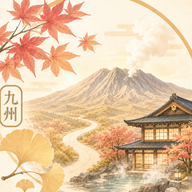
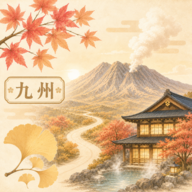
Add files via upload

diff --git a/app.js b/app.js
@@ -1,4 +1,4 @@
-/* Kyushu family autumn PWA · November 2026 · v1.8.0 fixed bottom nav + family labels + chapter artwork */
+/* Kyushu family autumn PWA · November 2026 · v1.9.5 chapter-free navigation + refreshed icon */
 
 const FIREBASE_CONFIG = window.KYUSHU_FIREBASE_CONFIG || {};
 const DATABASE_URL = FIREBASE_CONFIG.databaseURL || "https://kyushu2026-9b6b9-default-rtdb.asia-southeast1.firebasedatabase.app";
@@ -22,7 +22,6 @@ const GUIDE_DEVICE_ID_KEY = `${APP_NAMESPACE}:guide-device-id`;
 const BUDDY_FAST_ASSETS=[
   "./day-scene-zh-v17-01.webp?v=170","./day-scene-zh-v17-02.webp?v=170","./day-scene-zh-v17-03.webp?v=170","./day-scene-zh-v17-04.webp?v=170","./day-scene-zh-v17-05.webp?v=170",
   "./day-scene-zh-v17-06.webp?v=170","./day-scene-zh-v17-07.webp?v=170","./day-scene-zh-v17-08.webp?v=170","./day-scene-zh-v17-09.webp?v=170",
-  "./chapter-v18-d1-3.webp?v=180","./chapter-v18-d4-6.webp?v=180","./chapter-v18-d7-9.webp?v=180",
   "./day-scene-v52-01.webp?v=550","./day-scene-v52-02.webp?v=550","./day-scene-v52-03.webp?v=550","./day-scene-v52-04.webp?v=550","./day-scene-v52-05.webp?v=550",
   "./day-scene-v52-06.webp?v=550","./day-scene-v52-07.webp?v=550","./day-scene-v52-08.webp?v=550","./day-scene-v52-09.webp?v=550",
   "./weather-rain-usagi-v47.webp?v=470","./weather-sunny-usagi-v536.webp?v=536","./weather-teruteru-usagi-v536.webp?v=536","./weather-cloudy-usagi-v536.webp?v=536","./weather-thunder-usagi-v536.webp?v=536","./weather-snow-usagi-v536.webp?v=536","./booking-check-purin.webp?v=460","./booking-dash-usagi.webp?v=460","./hotel-return-duo.webp?v=460",
@@ -1712,32 +1711,7 @@ function getChapterPreview(){
   const current=chapterForDay(state?.dayIndex??0);
   return TRIP_CHAPTERS.find(ch=>ch.id===chapterPreviewId)||current;
 }
-function renderJourneyChapters(){
-  const wrap=$('#journeyChapters'); if(!wrap)return;
-  const current=chapterForDay(state?.dayIndex??0);
-  const preview=getChapterPreview();
-  const lang=getSceneLanguage();
-  wrap.innerHTML=`
-    <div class="journey-chapter-head">
-      <div><span class="eyebrow">CHAPTER</span><b>章節導覽</b></div>
-      <small>切換章節預覽・圖片可放大</small>
-    </div>
-    <div class="journey-chapter-tabs" role="tablist" aria-label="旅程章節">
-      ${TRIP_CHAPTERS.map(ch=>`<button type="button" class="journey-chapter-tab ${preview.id===ch.id?'selected':''} ${current.id===ch.id?'current':''}" data-chapter-tab="${ch.id}" role="tab" aria-selected="${preview.id===ch.id}"><small>${ch.range}</small><b>${ch.kicker.replace('Chapter ','第')}章</b></button>`).join('')}
-    </div>
-    <article class="journey-chapter-feature">
-      <button type="button" class="journey-chapter-image-btn" data-chapter-zoom="${preview.id}" aria-label="放大 ${esc(preview.title)} 圖片">
-        <img class="journey-chapter-feature-art" src="${chapterImageAsset(preview,lang)}" alt="${preview.range} ${esc(preview.title)}">
-        <span class="chapter-zoom-badge">⌕ 放大</span>
-      </button>
-      <div class="journey-chapter-feature-copy">
-        <small>${preview.kicker} · ${preview.range}</small>
-        <b>${preview.title}</b>
-        <span>${preview.note}</span>
-        <button type="button" class="chapter-enter-btn" data-chapter-start="${preview.start}">前往 D${preview.start+1} 行程 →</button>
-      </div>
-    </article>`;
-}
+function renderJourneyChapters(){return}
 function renderChapterLightbox(){
   const ch=TRIP_CHAPTERS[chapterLightboxIndex]||TRIP_CHAPTERS[0];
   const lang=getSceneLanguage();
@@ -2530,12 +2504,11 @@ function bindGuideTargets(visibleEvents=[]){
 
 function renderSchedule(){
   const d=TRIP.days[state.dayIndex];
-  const chapter=chapterForDay(state.dayIndex);
   $("#dayNumber").textContent=`D${state.dayIndex+1}`;
   $("#dayTitle").textContent=d.title;
   $("#daySubtitle").textContent=d.subtitle;
   const meta=$("#dayTitleMeta");
-  if(meta) meta.innerHTML=`<span class="day-meta-pill">${chapter.kicker}</span><span class="day-meta-text">${d.shortDate}</span><span class="day-meta-text">今日主圖</span>`;
+  if(meta) meta.innerHTML=`<span class="day-meta-pill">D${state.dayIndex+1}</span><span class="day-meta-text">${d.shortDate}</span><span class="day-meta-text">今日主圖</span>`;
   renderJourneyChapters();
   renderDayBrief(d);
   renderNowNext(d);
@@ -3450,7 +3423,7 @@ startPrivateAuth();
 if("serviceWorker" in navigator){
   window.addEventListener("load", async()=>{
     try{
-      const reg = await navigator.serviceWorker.register("./sw.js?v=180",{updateViaCache:"none"});
+      const reg = await navigator.serviceWorker.register("./sw.js?v=195",{updateViaCache:"none"});
       await reg.update();
     }catch(e){console.warn("Service Worker update failed",e)}
   });

diff --git a/index.html b/index.html
@@ -17,16 +17,16 @@
       document.documentElement.dataset.sceneLang=localStorage.getItem("kyushu-nov-2026:scene-lang")||"zh";
     }catch(e){}
   </script>
-  <link rel="stylesheet" href="./style.css?v=194" />
+  <link rel="stylesheet" href="./style.css?v=195" />
   <title>九州家族紅葉旅</title>
-  <meta name="app-version" content="1.9.4" />
+  <meta name="app-version" content="1.9.5" />
   <link rel="preload" as="image" href="./nov_hero_main_a.webp?v=160" fetchpriority="high">
   <link rel="preload" as="image" href="./day-scene-zh-v17-01.webp?v=170">
 </head>
 <body>
   <section id="authGate" class="auth-gate">
     <div class="auth-card">
-      <div class="auth-brand-icon"><img src="./nov_app_icon_v193.webp?v=193" alt="九州家族紅葉旅"></div>
+      <div class="auth-brand-icon"><img src="./nov_app_icon_v195.webp?v=195" alt="九州家族紅葉旅"></div>
       <span class="auth-kicker">PRIVATE TRIP</span>
       <h1>九州家族紅葉旅</h1>
       <p>行程內容只有已授權的 Google 帳號才能載入。</p>
@@ -67,7 +67,6 @@
         <div class="day-strip-wrap">
           <div id="dayStrip" class="day-strip" aria-label="旅行日期"></div>
         </div>
-        <section id="journeyChapters" class="journey-chapters" aria-label="旅程章節"></section>
         <section id="weatherCard" class="weather-card skeleton">
           <div class="weather-main">
             <div>
@@ -262,19 +261,6 @@
     </div>
   </dialog>
 
-  <div id="chapterImageLightbox" class="chapter-image-lightbox" aria-hidden="true">
-    <div class="chapter-image-lightbox-backdrop" data-chapter-lightbox-close="1"></div>
-    <div class="chapter-image-lightbox-card" role="dialog" aria-modal="true" aria-label="旅程章節圖片檢視">
-      <div class="chapter-image-lightbox-head"><div><span id="chapterLightboxKicker">Chapter 1 · D1–D3</span><b id="chapterLightboxTitle">旅程開始・福岡與由布院</b></div><button type="button" id="chapterLightboxClose" aria-label="關閉">×</button></div>
-      <div class="chapter-image-lightbox-stage">
-        <img id="chapterLightboxImage" alt="旅程章節主題圖">
-        <button type="button" id="chapterLightboxPrev" class="chapter-lightbox-nav prev" aria-label="上一章">‹</button>
-        <button type="button" id="chapterLightboxNext" class="chapter-lightbox-nav next" aria-label="下一章">›</button>
-      </div>
-      <div class="chapter-image-lightbox-foot"><span id="chapterLightboxCounter">1 / 3</span><small>左右滑動或按箭頭切換章節</small></div>
-    </div>
-  </div>
-
   <div id="dayImageLightbox" class="day-image-lightbox" aria-hidden="true">
     <div class="day-image-lightbox-backdrop" data-day-lightbox-close="1"></div>
     <div class="day-image-lightbox-card" role="dialog" aria-modal="true" aria-label="每日旅程圖片檢視">
@@ -384,7 +370,7 @@
   <div id="toast" class="toast" role="status"></div>
   <script defer src="https://www.gstatic.com/firebasejs/10.12.2/firebase-app-compat.js"></script>
   <script defer src="https://www.gstatic.com/firebasejs/10.12.2/firebase-auth-compat.js"></script>
-  <script defer src="./firebase-config.js?v=194"></script>
-  <script defer src="./app.js?v=194"></script>
+  <script defer src="./firebase-config.js?v=195"></script>
+  <script defer src="./app.js?v=195"></script>
 </body>
 </html>

diff --git a/sw.js b/sw.js
@@ -1,8 +1,8 @@
 const CACHE_PREFIX = "kyushu-nov-";
-const CACHE = "kyushu-nov-v1.9.4";
+const CACHE = "kyushu-nov-v1.9.5";
 const SHELL = [
-  "./","./index.html","./style.css?v=194","./app.js?v=194",
-  "./manifest.json","./firebase-config.js?v=194","./icon-192.png","./icon-512.png","./icon-maskable-512.png","./nov_app_icon_v193.webp?v=193",
+  "./","./index.html","./style.css?v=195","./app.js?v=195",
+  "./manifest.json","./firebase-config.js?v=195","./icon-192.png","./icon-512.png","./icon-maskable-512.png","./nov_app_icon_v195.webp?v=195",
   "./nov_app_icon_a.webp?v=160","./nov_app_icon_b.webp?v=160","./nov_app_icon_c.webp?v=160",
   "./nov_hero_main_a.webp?v=160","./nov_hero_main_b.webp?v=160",
   "./nov_weather_sunny.webp?v=160","./nov_weather_cloudy.webp?v=160","./nov_weather_rainy.webp?v=160","./nov_weather_storm.webp?v=160","./nov_weather_snow.webp?v=160",
@@ -52,9 +52,6 @@ const SHELL = [
   "./day-scene-zh-v17-07.webp?v=170",
   "./day-scene-zh-v17-08.webp?v=170",
   "./day-scene-zh-v17-09.webp?v=170",
-  "./chapter-v18-d1-3.webp?v=180",
-  "./chapter-v18-d4-6.webp?v=180",
-  "./chapter-v18-d7-9.webp?v=180"
 ];
 
 self.addEventListener("install", event => {

diff --git a/style.css b/style.css
@@ -4239,3 +4239,9 @@ html[data-theme="wa"] .settings-btn{top:12px!important;right:13px!important;z-in
   html[data-theme="wa"] .hero-date{font-size:12.5px!important;margin-bottom:8px!important}
   html[data-theme="wa"] .hero-route{font-size:9px!important;gap:3px!important;letter-spacing:.01em!important}
 }
+
+
+/* ===== v1.9.5 — chapter-free home flow ===== */
+#journeyChapters,.journey-chapters,.chapter-image-lightbox{display:none!important}
+.day-strip-wrap{margin-bottom:12px!important}
+#weatherSection,.weather-card{scroll-margin-top:12px}

diff --git a/README_PUBLIC.md b/README_PUBLIC.md
@@ -1,22 +1,12 @@
 Kyushu 2026 Nov PWA
-Version: 1.9.4
+Version: 1.9.5
 
 更新內容：
-- Hero 標題群組改到左上角，採旅誌封面式排版
-- 主標改用和整體視覺一致的 serif 中文字體
-- 主標維持無框設計，避免卡片感
-- 日期與中文路線重新整理層級與間距
-- 手機窄螢幕同步調整字級與留白
-- Service Worker / PWA cache 升級至 v1.9.4
+- 移除首頁 Chapter 章節導覽與章節放大視窗，避免和 D1–D9 日期導航重複。
+- Chapter 圖不再預載 / 不加入 Service Worker 快取；完整備份仍保留原圖素材。
+- 每日 Header 的 Chapter 標籤改為單純 D1–D9。
+- App / PWA icon 換成最新淡色「九州・阿蘇・溫泉・楓葉銀杏」版本。
+- 更新 192 / 512 / maskable PWA icon 與登入品牌圖。
+- Service Worker / PWA cache 升級至 v1.9.5。
 
-Kyushu 2026 Nov PWA
-Version: 1.9.3
-
-更新內容：
-- Hero 主標改為乾淨無框版，移除左上突兀葉片裝飾。
-- Hero 與整體 UI 再提亮，改為奶油白、淡楓葉粉、柔和銀杏金。
-- Chapter 導覽改為三個明確章節按鈕 + 單一大型預覽卡。
-- Chapter 圖可點擊放大，放大後可左右滑動切換三章。
-- Chapter 明確分離「預覽章節」與「前往 Dn 行程」操作。
-- 套用最新淡色版 App / PWA icon，且調整 maskable icon，降低 Android 啟動畫面中圖示過小的問題。
-- PWA cache 升級為 v1.9.3。
+備註：手機已安裝舊 PWA 時，系統可能快取舊 icon。必要時請移除舊主畫面捷徑後重新加入。
